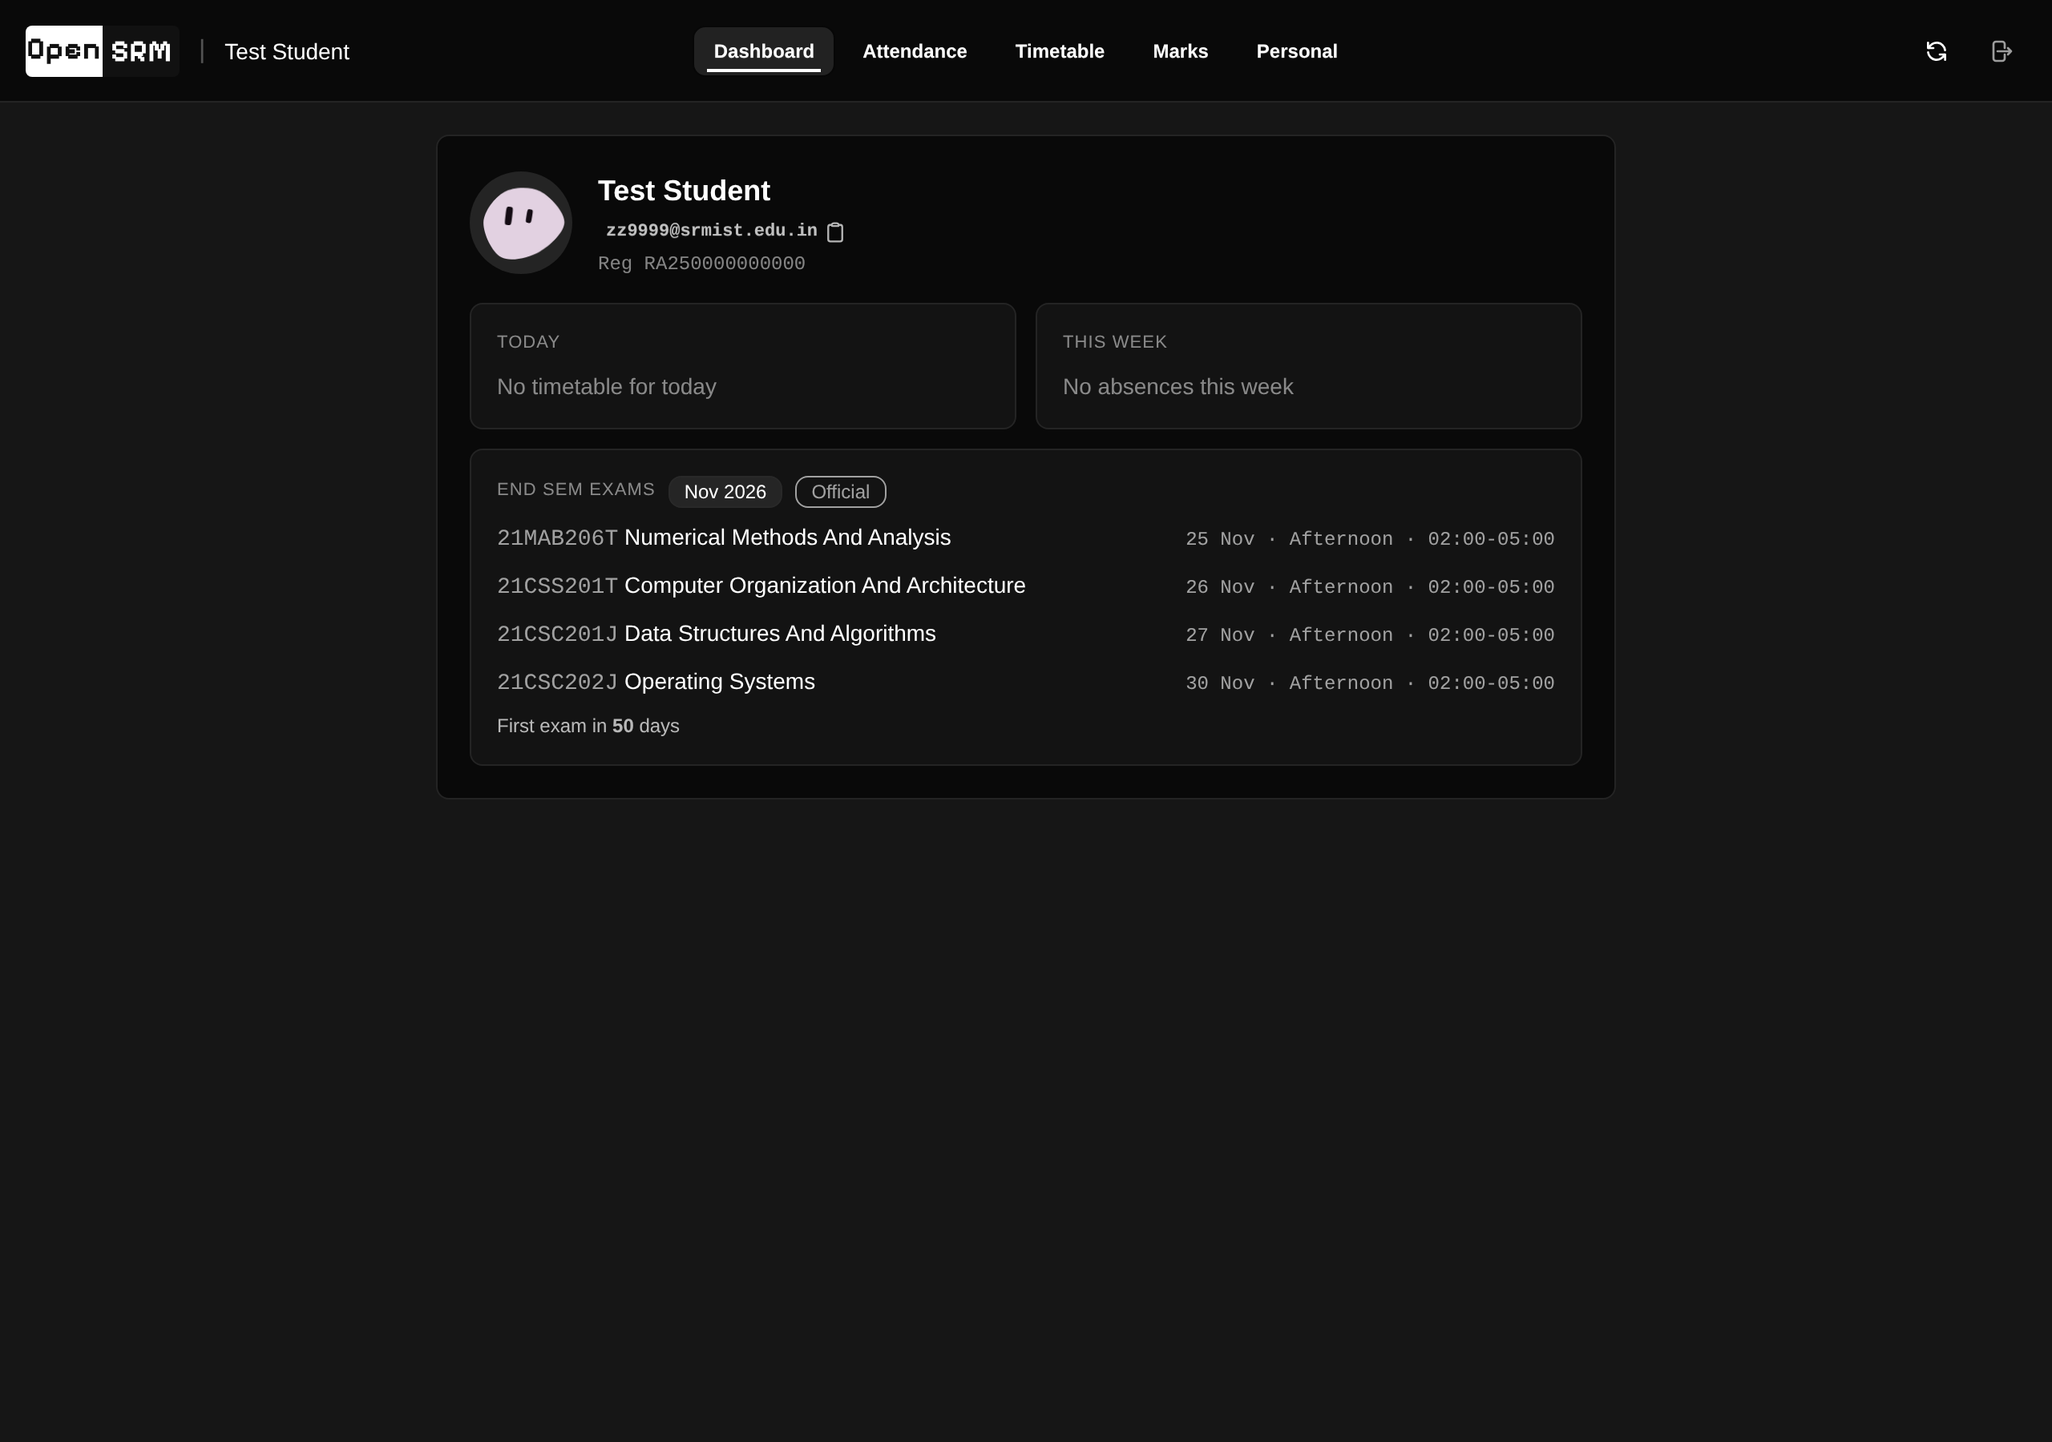
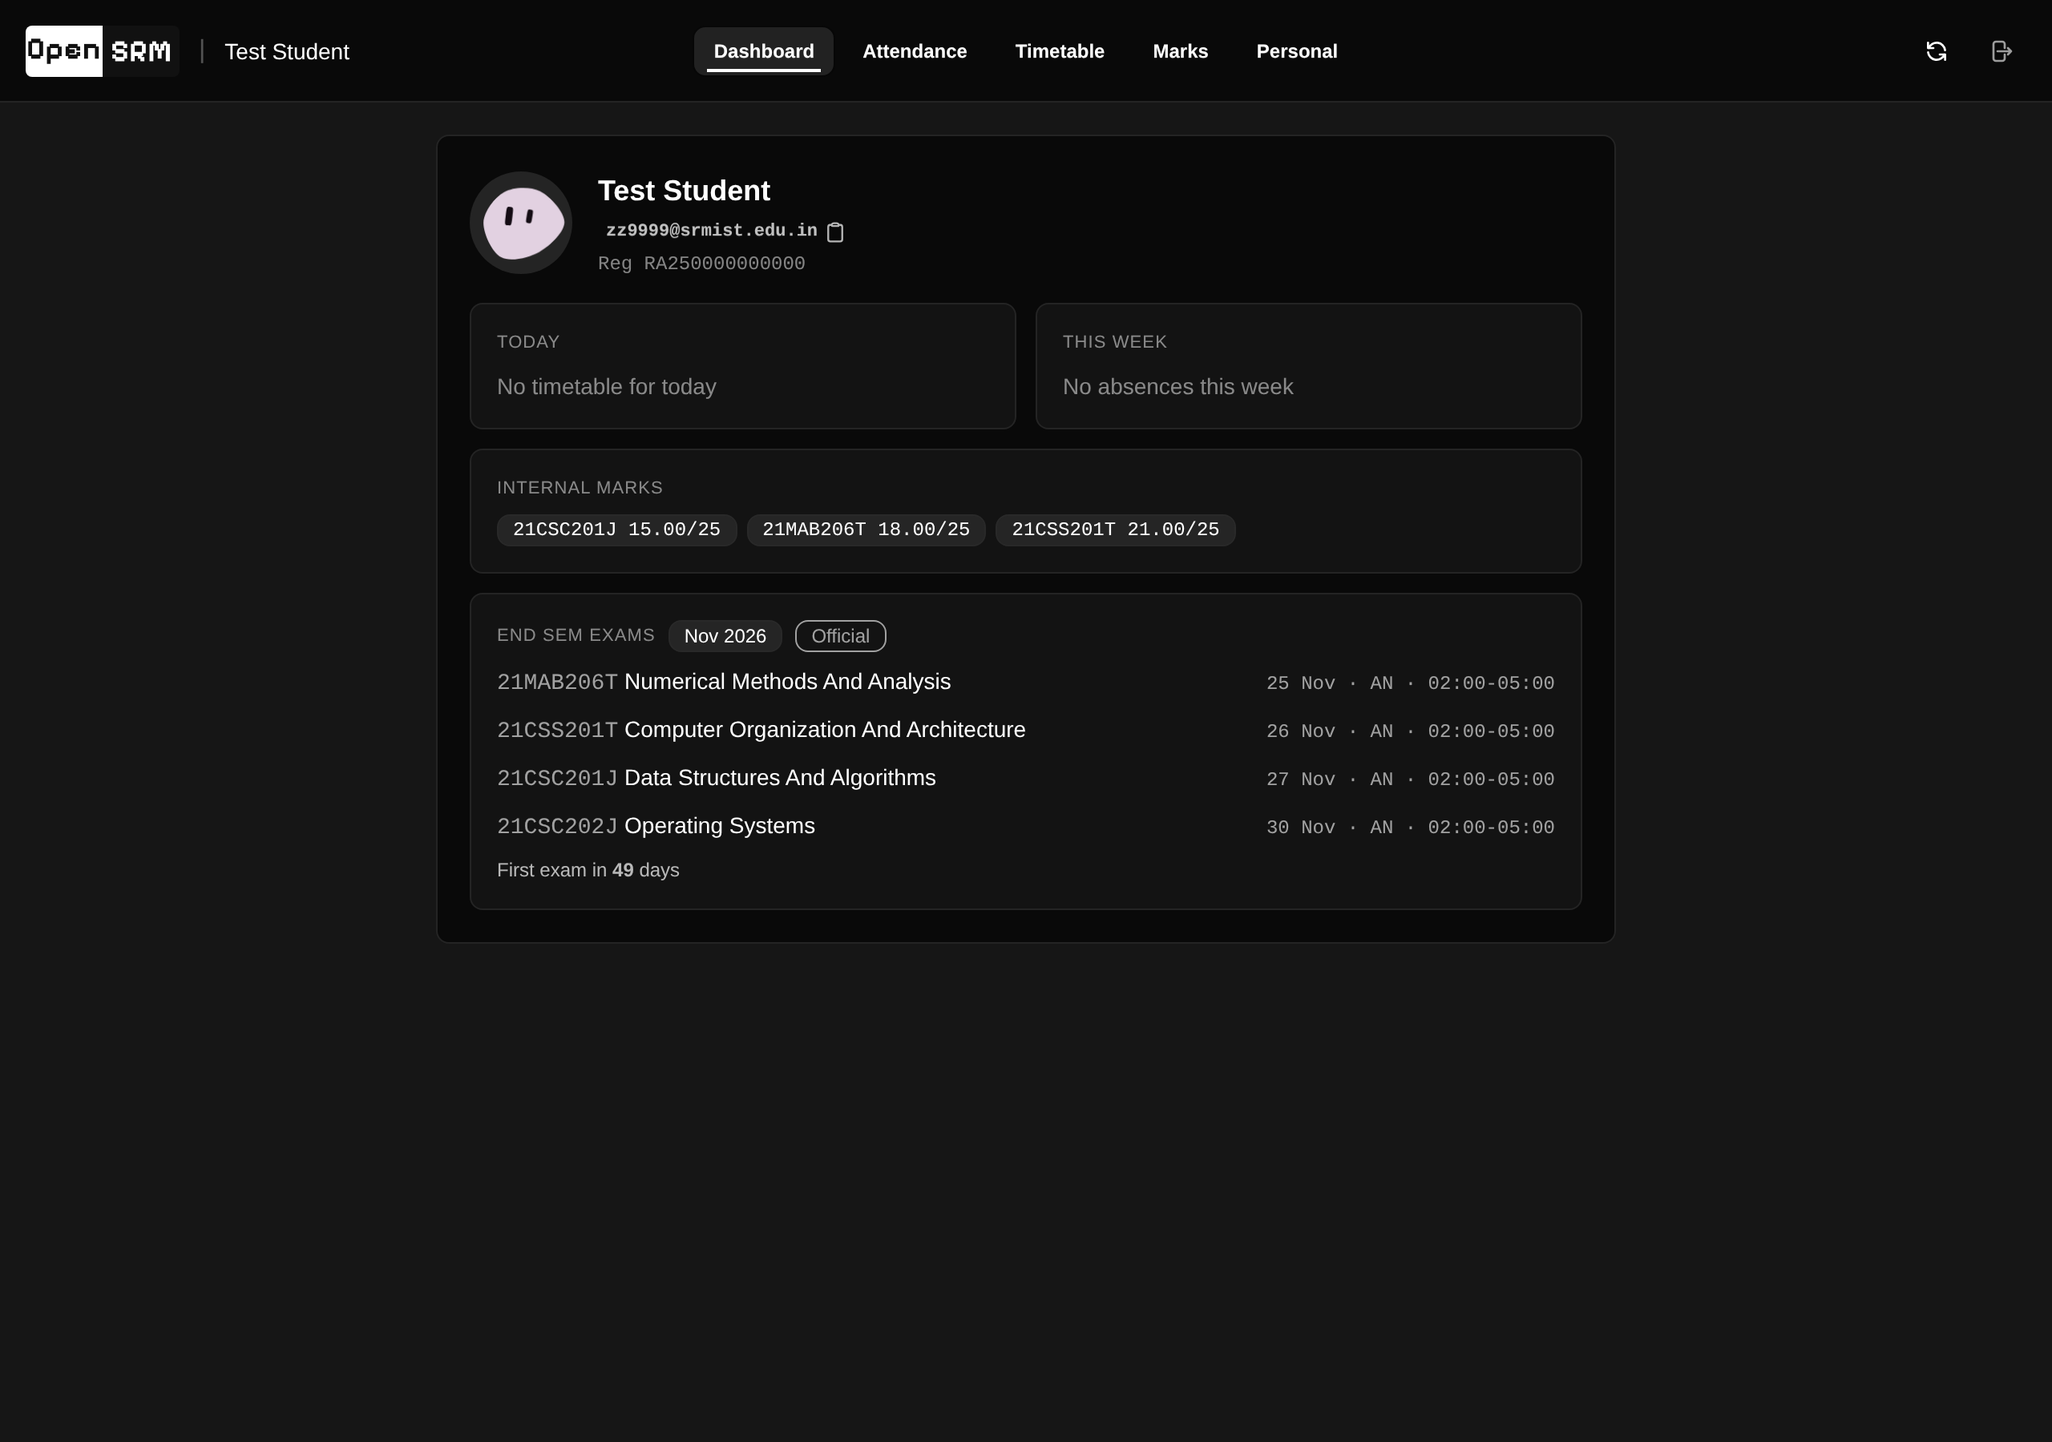
exam events: hall/seat allotment push, FN/AN native codes, header-drift-proof ETT parser
- parse_exam_timetable: header-driven column resolution (portal can
  reorder/insert columns); unparseable-but-present tables return None so
  stored schedules are preserved, never wiped (Oct 4 blanked-dates rule)
- _exam_events/_notify_exam_events: one-shot Web Push on estimate->official
  release and on hall/seat publication/change (~1 day pre-exam room
  allotments; at-most-once per device via push_sent_log claims, 12h TTL)
- card row meta: Hall/Seat line renders when allotments appear
- session_disp: portal-native AN/FN codes, never expanded
- tests 43->66 (header-drift matrix, transition detector, notifier claims)

diff --git a/app/templates/dashboard.html b/app/templates/dashboard.html
@@ -208,7 +208,7 @@
                 </span>
                 <span class="min-w-0 flex-1 sm:hidden">
                   <span class="block text-sm font-semibold leading-snug text-balance text-base-content">{{ e.name_disp }}</span>
-                  <span class="block mt-0.5 font-mono text-xs text-base-content/60">{{ e.code }} · {{ e.session_disp }}{% if e.slot %} · {{ e.slot }}{% endif %}</span>
+                  <span class="block mt-0.5 font-mono text-xs text-base-content/60">{{ e.code }} · {{ e.session_disp }}{% if e.slot %} · {{ e.slot }}{% endif %}{% if e.hall %} · Hall {{ e.hall }}{% if e.seat %} · Seat {{ e.seat }}{% endif %}{% endif %}</span>
                 </span>
                 <!-- desktop: one dense line, date right -->
                 <span class="hidden sm:flex sm:w-full sm:items-baseline sm:justify-between sm:gap-4">
@@ -216,7 +216,7 @@
                     <span class="font-mono text-base-content/60">{{ e.code }}</span>
                     <span class="text-base-content">{{ e.name_disp }}</span>
                   </span>
-                  <span class="shrink-0 font-mono text-xs text-base-content/60">{{ e.short }} · {{ e.session_disp }}{% if e.slot %} · {{ e.slot }}{% endif %}</span>
+                  <span class="shrink-0 font-mono text-xs text-base-content/60">{{ e.short }} · {{ e.session_disp }}{% if e.slot %} · {{ e.slot }}{% endif %}{% if e.hall %} · Hall {{ e.hall }}{% if e.seat %} · Seat {{ e.seat }}{% endif %}{% endif %}</span>
                 </span>
               </li>
               {% endfor %}

diff --git a/tests/test_exams.py b/tests/test_exams.py
@@ -5,6 +5,7 @@ Fixture HTML is SYNTHETIC — mirrors the live Sep 27 2026 structure exactly
 (checkbox td + 6 data columns / 'No subject found' empty marker) with fake
 subject codes and dates. Never commit real leaked schedule rows.
 """
+import json
 import os
 import sys
 import tempfile
@@ -13,7 +14,10 @@ from datetime import datetime
 os.environ.setdefault("DATA_DIR", tempfile.mkdtemp(prefix="exam-test-"))
 sys.path.insert(0, os.path.join(os.path.dirname(os.path.abspath(__file__)), ".."))
 
-from app.app import parse_exam_schedule  # noqa: E402  (import runs init_db)
+from app import push_store  # noqa: E402
+from app.app import (  # noqa: E402  (import runs init_db)
+    _exam_events, _notify_exam_events, parse_exam_schedule, parse_exam_timetable,
+)
 from app.http_scraper import _merge_exam_results, exam_candidates  # noqa: E402
 
 ROW = """<tr>
@@ -191,6 +195,96 @@ check("official garbage + scribe rows -> scribe wins",
       _merge_exam_results([((11, 2026), FULL_PAGE)], official_html="<html>blocked</html>") is not None)
 check("official table no transport + no scribe -> None",
       _merge_exam_results([None, None], official_html=OFFICIAL_EMPTY) is None)
+
+# ── 12. official-timetable adaptability: header-driven columns ──────────────
+HDR_ETT = """<table><tbody><tr><th>Sem/Year/Trim</th><th>Subject Code</th>
+<th>Subject Description</th><th>Date &amp; Session</th><th>Hall No.</th>
+<th>Seat No.</th><th>November -2026</th></tr>
+<tr><td>III</td><td>21AAA101J</td><td>TEST SUBJECT A</td>
+<td>25-NOV-2026 AN  (02:00-05:00)</td><td>12</td><td>08</td><td></td></tr>
+<tr><td>III</td><td>21BBB102J</td><td>TEST SUBJECT B</td>
+<td>26-NOV-2026 FN  (09:30-12:30)</td><td>12</td><td>09</td><td></td></tr>
+</tbody></table>"""
+hdr_rows = parse_exam_timetable(HDR_ETT)
+check("header row: 2 rows parsed", hdr_rows is not None and len(hdr_rows) == 2, hdr_rows)
+check("header row: hall/seat read",
+      hdr_rows and hdr_rows[0]["hall"] == "12" and hdr_rows[0]["seat"] == "08", hdr_rows)
+check("header row: FN session + slot",
+      hdr_rows and hdr_rows[1]["session"] == "FN" and hdr_rows[1]["slot"] == "09:30-12:30",
+      hdr_rows)
+# portal INSERTS an extra column (header + rows both grow) -> known fields still resolve
+EXTRA_ETT = (HDR_ETT.replace("<th>Date &amp; Session</th>",
+                             "<th>Reporting Time</th><th>Date &amp; Session</th>")
+             .replace("<td>25-NOV-2026", "<td>08:45</td><td>25-NOV-2026")
+             .replace("<td>26-NOV-2026", "<td>08:45</td><td>26-NOV-2026"))
+extra_rows = parse_exam_timetable(EXTRA_ETT)
+check("extra column inserted -> date/hall still resolve by header",
+      extra_rows and len(extra_rows) == 2 and extra_rows[0]["date"] == "25-11-2026"
+      and extra_rows[0]["hall"] == "12", extra_rows)
+# header present but Hall No. column GONE -> "" (no positional guessing)
+NOHALL_ETT = HDR_ETT.replace("<th>Hall No.</th>", "").replace("<td>12</td>", "")
+nohall_rows = parse_exam_timetable(NOHALL_ETT)
+check("hall column gone -> hall empty, seat still read",
+      nohall_rows and nohall_rows[0]["hall"] == "" and nohall_rows[0]["seat"] == "08",
+      nohall_rows)
+# table present but nothing parses (label drift) -> None, never a clean empty
+DRIFT = ("<table><tr><th>A</th><th>B</th><th>C</th><th>D</th></tr>"
+         "<tr><td>1</td><td>2</td><td>3</td><td>4</td></tr></table>")
+check("drifted table -> None (preserve, not wipe)", parse_exam_timetable(DRIFT) is None)
+check("drift + scribe rows -> preserved (None), scribe not applied",
+      _merge_exam_results([((11, 2026), FULL_PAGE)], official_html=DRIFT) is None)
+
+# ── 13. transition detector (_exam_events) ──────────────────────────────────
+est = [{"code": "21AAA101J", "date": "25-11-2026", "session": "AN"}]
+off = [{"code": "21AAA101J", "date": "25-11-2026", "session": "AN", "slot": "02:00-05:00"}]
+ev = _exam_events(json.dumps(est), off)
+check("estimate->official fires release event",
+      len(ev) == 1 and ev[0]["claim"] == "official-25-11-2026", ev)
+check("release body carries the first exam date", "25 Nov" in ev[0]["body"], ev[0])
+check("release claim stable across re-detection",
+      _exam_events(json.dumps(est), off)[0]["claim"] == ev[0]["claim"])
+check("fresh user (nothing stored) gets no release note", _exam_events(None, off) == [])
+check("official->official: no event", _exam_events(json.dumps(off), off) == [])
+off_h = [dict(off[0], hall="12", seat="08")]
+hv = _exam_events(json.dumps(off), off_h)
+check("hall publication fires one event",
+      len(hv) == 1 and hv[0]["claim"].startswith("hall-"), hv)
+check("hall body names room + seat",
+      "Hall 12" in hv[0]["body"] and "Seat 08" in hv[0]["body"], hv[0])
+check("same hall state -> no event", _exam_events(json.dumps(off_h), off_h) == [])
+hv2 = _exam_events(json.dumps(off_h), [dict(off[0], hall="14", seat="09")])
+check("room change re-notifies with a different claim",
+      len(hv2) == 1 and hv2[0]["claim"] != hv[0]["claim"], (hv, hv2))
+check("release + hall publish together -> both events",
+      len(_exam_events(json.dumps(est), off_h)) == 2)
+
+# ── 14. notifier: at-most-once claims + payload shape ───────────────────────
+push_store.upsert_subscription("zz9999", "https://push.example/ep1", "p256dh", "auth", "DUT")
+sent_payloads = []
+
+
+def _fake_batch(jobs, deadline):
+    for j in jobs:
+        j["outcome"] = {"ok": True, "http_status": 201}
+        sent_payloads.append(j["payload"])
+    return jobs
+
+
+conf = {"enabled": True, "configured": True, "dry_run": False, "allow": set()}
+n1 = _notify_exam_events("zz9999", ev, conf=conf, send_batch=_fake_batch)
+check("event push sends once", n1 == 1 and len(sent_payloads) == 1, (n1, sent_payloads))
+p = sent_payloads[0] if sent_payloads else {}
+check("payload shape (title/body/tag/url)",
+      {"title", "body", "tag", "url"} <= set(p) and p.get("url") == "/", p)
+check("second call: claim blocks (at-most-once)",
+      _notify_exam_events("zz9999", ev, conf=conf, send_batch=_fake_batch) == 0)
+check("dry-run sends nothing",
+      _notify_exam_events("zz9999", hv, conf=dict(conf, dry_run=True),
+                          send_batch=_fake_batch) == 0)
+check("dry-run did NOT consume the claim -> live send works after",
+      _notify_exam_events("zz9999", hv, conf=conf, send_batch=_fake_batch) == 1)
+check("no subscriptions -> nothing sent",
+      _notify_exam_events("nobody-here", ev, conf=conf, send_batch=_fake_batch) == 0)
 
 print(f"\n{passed}/{passed + failed} passed")
 sys.exit(1 if failed else 0)

diff --git a/tests/test_exams_view.py b/tests/test_exams_view.py
@@ -23,7 +23,7 @@ assert [r["day"] for r in v["rows"]] == ["25", "27"]
 assert v["rows"][0]["dow"] in ("Tue", "Wed"), v["rows"][0]["dow"]   # 25 Nov 2026 = Wednesday
 assert v["rows"][0]["name_disp"] == "Numerical Methods And Analysis"
 assert v["label"] == "Nov 2026" and v["days_until"] > 0
-assert v["rows"][0]["session_disp"] == "Afternoon"          # AN/FN expanded
+assert v["rows"][0]["session_disp"] == "AN"                   # FN/AN shown as students know them
 assert _exams_view([{"code": "X", "name": "A B", "date": "25-11-2026",
                     "session": "ZZ"}])["rows"][0]["session_disp"] == "ZZ"
 # junk date falls back to the raw value, never crashes
@@ -42,5 +42,9 @@ assert v4["source"] == "Official + est.", v4["source"]              # mixed
 v5 = _exams_view([{"code": "X", "name": "A B", "date": "25-11-2026",
                    "session": "AN", "slot": "02:00-05:00"}])
 assert v5["source"] == "Official", v5["source"]                     # all official
+# hall/seat pass through to the card rows (room allotment display)
+v6 = _exams_view([{"code": "X", "name": "A B", "date": "25-11-2026",
+                   "session": "AN", "slot": "02:00-05:00", "hall": "12", "seat": "08"}])
+assert v6["rows"][0]["hall"] == "12" and v6["rows"][0]["seat"] == "08", v6["rows"][0]
 assert _exams_view([]) is None
 print("ok  exams view model")

diff --git a/app/http_scraper.py b/app/http_scraper.py
@@ -575,12 +575,18 @@ def _merge_exam_results(results, official_html=None):
 
     official_html: the iden=126 Exam Time Table body. Official rows win per
     subject code (they carry exact clock slots); scribe rows fill subjects the
-    official page leaves pending — pre-release fallback for future sems."""
+    official page leaves pending — pre-release fallback for future sems.
+    Parse state: rows = merge them; [] = official publishes nothing yet
+    (scribe fallback rules apply); None = table present but unparseable
+    (label/column drift) — preserve stored rows, never wipe."""
     from app.app import parse_exam_schedule, parse_exam_timetable  # deferred: avoid circularity
     official = []
     if official_html:
         official = parse_exam_timetable(official_html)
     ok = [r for r in results if r is not None]
+    if official is None:
+        log.debug("exam timetable: unparseable table shape — preserving stored value")
+        return None
     if not ok and not official:
         return None
     rows, blanked = [], False

diff --git a/DESIGN.md b/DESIGN.md
@@ -420,7 +420,7 @@ Meaning map: current class = `success` border + 8% tint (the hero states it — 
 
 ### 4.12 End-sem schedule card (dashboard)
 
-`_exams_view()` builds the view model (`day`, `dow`, `short`, `name_disp`, month-range `label`, `source`); the card renders only when exams exist — **empty = hidden, by design** (no empty-state text, unlike sibling cards). The header caveat is a **dynamic source badge** (Oct 2026: the portal published official dates): `Official` when every row carries a clock `slot` (from the iden=126 Exam Time Table), `Official + est.` on a mixed view, `Estimated` when rows come from the ScribeInner leak alone. Same `badge-outline badge-sm text-base-content/60` styling as the old static `Provisional` pill (7.15:1, subtle-but-present). Row metadata carries the clock slot when present: `{{ e.code }} · {{ e.session_disp }}{% if e.slot %} · {{ e.slot }}{% endif %}`.
+`_exams_view()` builds the view model (`day`, `dow`, `short`, `name_disp`, month-range `label`, `source`); the card renders only when exams exist — **empty = hidden, by design** (no empty-state text, unlike sibling cards). The header caveat is a **dynamic source badge** (Oct 2026: the portal published official dates): `Official` when every row carries a clock `slot` (from the iden=126 Exam Time Table), `Official + est.` on a mixed view, `Estimated` when rows come from the ScribeInner leak alone. Same `badge-outline badge-sm text-base-content/60` styling as the old static `Provisional` pill (7.15:1, subtle-but-present). Row metadata carries the clock slot when present, plus the room allotment when the portal publishes it (`Hall … · Seat …`, hidden until then — the ETT table leaves those cells blank until ~1 day before each exam): `{{ e.code }} · {{ e.session_disp }}{% if e.slot %} · {{ e.slot }}{% endif %}{% if e.hall %} · Hall {{ e.hall }}{% if e.seat %} · Seat {{ e.seat }}{% endif %}{% endif %}`. Sessions display as the portal's own `AN`/`FN` codes — students' native notation — never expanded. The iden=126 parser is **header-driven** (column positions resolved from the header row's labels, unknown columns ignored, `None` on drifted-but-present tables so stored rows are preserved rather than wiped); hall/seat publication and the estimate→official transition fire **one-shot Web Push events** (at-most-once per device via `push_sent_log` claims, 12 h delivery TTL).
 
 ```jinja
 <!-- mobile: one landmark (day stamp) + one bright line (name) per row -->
@@ -431,12 +431,12 @@ Meaning map: current class = `success` border + 8% tint (the hero states it — 
   </span>
   <span class="min-w-0 flex-1 sm:hidden">
     <span class="block text-sm leading-snug text-base-content">{{ e.name_disp }}</span>
-    <span class="block mt-0.5 font-mono text-xs text-base-content/60">{{ e.code }} · {{ e.session_disp }}{% if e.slot %} · {{ e.slot }}{% endif %}</span>
+    <span class="block mt-0.5 font-mono text-xs text-base-content/60">{{ e.code }} · {{ e.session_disp }}{% if e.slot %} · {{ e.slot }}{% endif %}{% if e.hall %} · Hall {{ e.hall }}{% if e.seat %} · Seat {{ e.seat }}{% endif %}{% endif %}</span>
   </span>
   <!-- desktop: one dense line via sm: switches, zero JS -->
   <span class="hidden sm:flex sm:w-full sm:items-baseline sm:justify-between sm:gap-4">
     <span class="min-w-0 truncate text-sm"><span class="font-mono text-base-content/60">{{ e.code }}</span> <span class="text-base-content">{{ e.name_disp }}</span></span>
-    <span class="shrink-0 font-mono text-xs text-base-content/60">{{ e.short }} · {{ e.session_disp }}{% if e.slot %} · {{ e.slot }}{% endif %}</span>
+    <span class="shrink-0 font-mono text-xs text-base-content/60">{{ e.short }} · {{ e.session_disp }}{% if e.slot %} · {{ e.slot }}{% endif %}{% if e.hall %} · Hall {{ e.hall }}{% if e.seat %} · Seat {{ e.seat }}{% endif %}{% endif %}</span>
   </span>
 </li>
 ```

diff --git a/AGENTS.md b/AGENTS.md
@@ -39,7 +39,7 @@ Migrations run on import (fresh `DATA_DIR` = fresh DB, boots clean — that's te
 ## Test matrix (all green before push)
 ```bash
 .venv/bin/python tests/verify76.py          # 71/71 static (findings, docs, pins, versions)
-.venv/bin/python tests/test_exams.py        # 43/43 (official ETT parser + scribe fallback merge + blanked-dates preserve)
+.venv/bin/python tests/test_exams.py        # 66/66 (official ETT parser + header-drift adaptability + scribe fallback merge + transition/push events)
 .venv/bin/python tests/test_exams_view.py    # dashboard card view model (stamps, labels)
 .venv/bin/python tests/test_tt_history.py    # 18/18 (timetable edit log + break-divider fix + location preservation)
 .venv/bin/python tests/test_login_reject.py  # rejection classifier + sync-quota order (offline)
